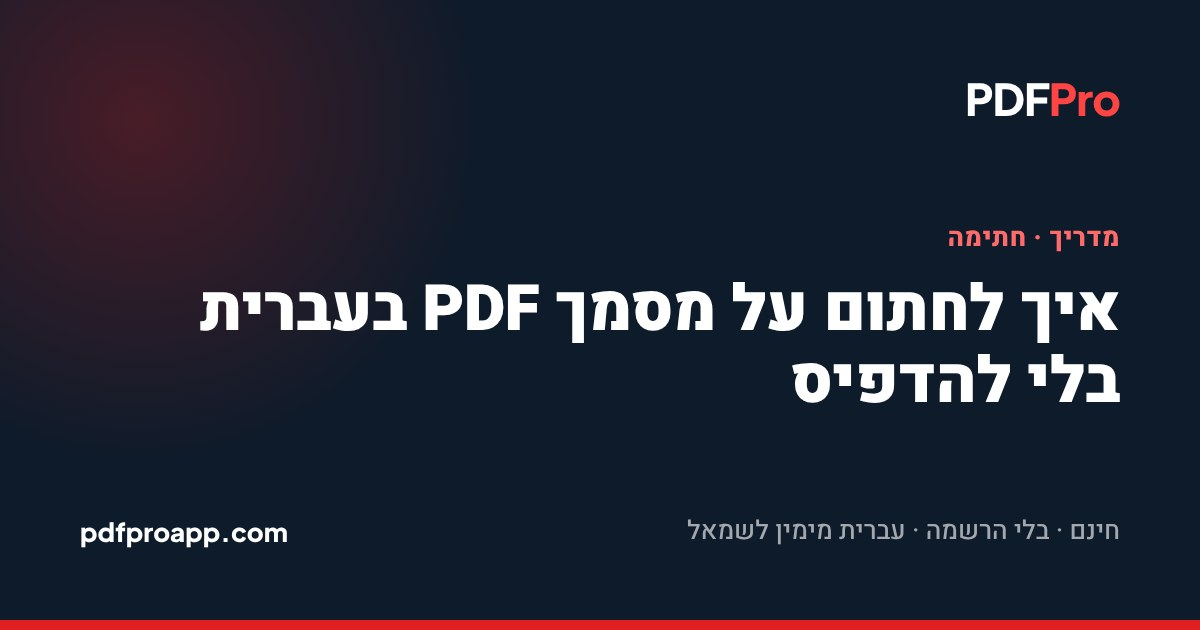
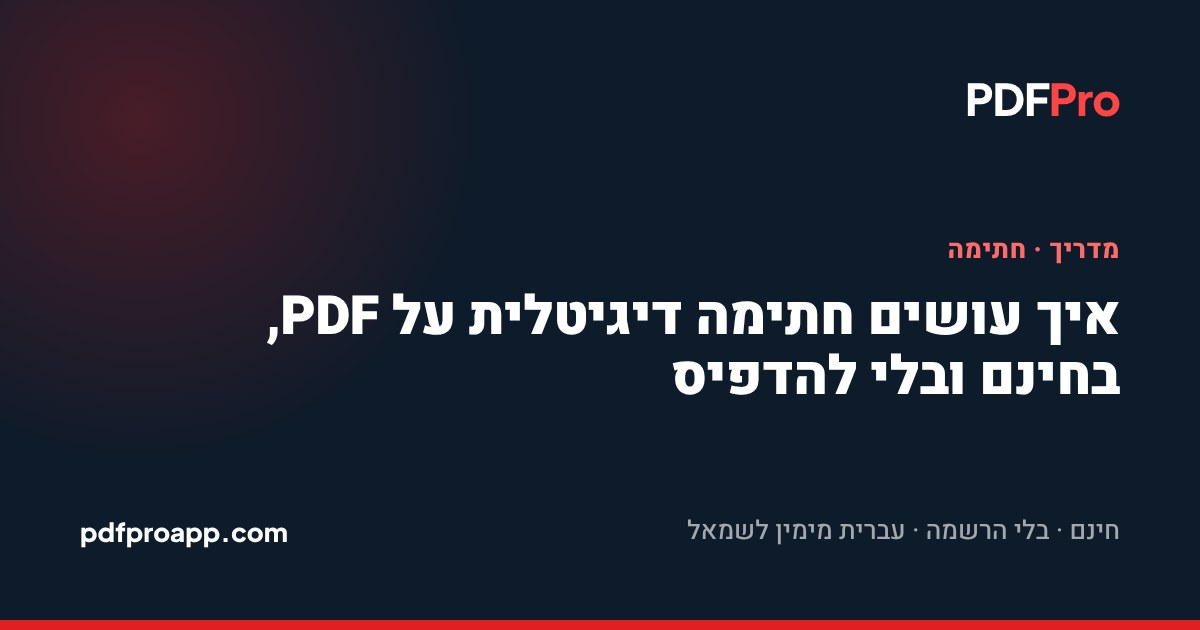
Hebrew titles in the words people search: הקטנת קובץ PDF, איחוד קבצי PDF, חתימה דיגיטלית (#32)
Claude-Session: https://claude.ai/code/session_01XJZ43rP6NY81ufvKxETeWz

Changed region(s): [[0.1542, 0.4524, 0.9558, 0.6635], [0.7708, 0.3619, 0.9558, 0.4222]]

diff --git a/he/blog/index.html b/he/blog/index.html
@@ -54,7 +54,7 @@
 <nav class="breadcrumb" aria-label="Breadcrumb"><ol><li><a href="/he/">בית</a></li><li aria-current="page">בלוג</li></ol></nav>
 <h1>מדריכים</h1>
 <p class="lead">מדריכים מעשיים שיעזרו לכם לגרום לקבצי PDF לעשות מה שצריך.</p>
-<a class="blog-card" href="/he/blog/translate-pdf-english-hebrew/"><time datetime="2026-10-11">11 באוקטובר 2026</time><span class="tag">תרגום</span><h2>איך לתרגם PDF או חוזה מאנגלית לעברית ולשמור על העיצוב</h2><p>מתרגמים מסמך PDF שלם מאנגלית לעברית באותו עיצוב. מה עובד, מה עושים עם סריקות, ומה חשוב לבדוק כשמתרגמים חוזה.</p></a><a class="blog-card" href="/he/blog/merge-pdf-files/"><time datetime="2026-10-11">11 באוקטובר 2026</time><span class="tag">ארגון</span><h2>איך לאחד כמה קבצי PDF לקובץ אחד</h2><p>מאחדים 2 עד 20 קבצי PDF לקובץ אחד בסדר הנכון, ומטפלים בבעיות הנפוצות: סיסמאות, צילומים, עמודים מיותרים וקובץ שיוצא גדול מדי.</p></a><a class="blog-card" href="/he/blog/pdf-to-image/"><time datetime="2026-10-11">11 באוקטובר 2026</time><span class="tag">המרה</span><h2>איך להפוך PDF לתמונה לוואטסאפ, לאינסטגרם או למצגת</h2><p>הופכים עמודי PDF לתמונות JPG או PNG, ובוחרים את הפורמט והאיכות הנכונים לוואטסאפ, לרשתות החברתיות או למצגת.</p></a><a class="blog-card" href="/he/blog/pdf-table-to-excel/"><time datetime="2026-10-09">9 באוקטובר 2026</time><span class="tag">המרה</span><h2>איך להעביר טבלה מ-PDF ל-Excel בלי להקליד מחדש</h2><p>מוציאים טבלה מ-PDF לגיליון Excel עם השורות והעמודות במקום, מתקנים את הבעיות הנפוצות, ומטפלים בטבלאות סרוקות.</p></a><a class="blog-card" href="/he/blog/sign-pdf-on-phone/"><time datetime="2026-10-09">9 באוקטובר 2026</time><span class="tag">חתימה</span><h2>איך לחתום על PDF בטלפון אנדרואיד או אייפון, בלי להדפיס</h2><p>חתימה על מסמך PDF עם האצבע באנדרואיד או באייפון: איפה הקובץ, איך חותמים בדפדפן ואיך שולחים. וגם: שני חותמים, תקלות נפוצות ודרכים אחרות.</p></a><a class="blog-card" href="/he/blog/delete-text-from-pdf/"><time datetime="2026-10-09">9 באוקטובר 2026</time><span class="tag">פרטיות</span><h2>איך למחוק טקסט מקובץ PDF כך שבאמת ייעלם</h2><p>למה ריבוע שחור מעל הטקסט לא מסתיר אותו, איך מוחקים טקסט מ-PDF באמת, ואיך בודקים שזה עבד.</p></a><a class="blog-card" href="/he/blog/word-to-pdf-hebrew/"><time datetime="2026-09-26">26 בספטמבר 2026</time><span class="tag">המרה</span><h2>איך להמיר וורד ל-PDF בעברית: במחשב, בטלפון ואונליין</h2><p>ארבע דרכים להפוך קובץ Word ל-PDF, חמש בדיקות לפני ההמרה, ואיך מתקנים בעיות עברית כדי שה-PDF ייראה בדיוק כמו שצריך.</p></a><a class="blog-card" href="/he/blog/sign-rental-contract-online/"><time datetime="2026-09-26">26 בספטמבר 2026</time><span class="tag">חתימה</span><h2>איך לחתום על חוזה שכירות בלי להדפיס</h2><p>מה לבדוק לפני שחותמים על חוזה שכירות, איך חותמים על ה-PDF אונליין, ומה לשמור אחרי החתימה.</p></a><a class="blog-card" href="/he/blog/signature-types-explained/"><time datetime="2026-09-26">26 בספטמבר 2026</time><span class="tag">חתימה</span><h2>חתימה סרוקה, חתימה על PDF או חתימה מאושרת: מה ההבדל?</h2><p>שלושה סוגי חתימות על מסמכים דיגיטליים, מה כל אחד מוכיח, ואיך יודעים איזה סוג צריך.</p></a><a class="blog-card" href="/he/blog/rotate-scanned-pdf/"><time datetime="2026-09-26">26 בספטמבר 2026</time><span class="tag">ארגון</span><h2>איך לסובב PDF סרוק ולשמור אותו כך</h2><p>למה סיבוב בתוכנת הצפייה לא נשמר, ואיך מסובבים עמודים בקובץ עצמו, כולל רק חלק מהעמודים.</p></a><a class="blog-card" href="/he/blog/copy-text-from-image-hebrew/"><time datetime="2026-09-26">26 בספטמבר 2026</time><span class="tag">OCR</span><h2>איך להעתיק טקסט מתמונה או מסריקה בעברית</h2><p>חילוץ טקסט מצילומים וסריקות עם OCR, למה עברית קשה יותר לזיהוי, ואיך מקבלים תוצאה מדויקת.</p></a><a class="blog-card" href="/he/blog/powerpoint-to-pdf/"><time datetime="2026-09-26">26 בספטמבר 2026</time><span class="tag">המרה</span><h2>איך לשלוח מצגת כ-PDF, ומה הולך לאיבוד</h2><p>למה קובץ PowerPoint יכול להיראות אחרת אצל הנמען, איך ממירים ל-PDF, ומה קורה לאנימציות ולסרטונים.</p></a><a class="blog-card" href="/he/blog/bank-statement-to-excel/"><time datetime="2026-09-26">26 בספטמבר 2026</time><span class="tag">המרה</span><h2>איך להפוך דף חשבון מהבנק לטבלת Excel</h2><p>המרה של דף חשבון או פירוט אשראי ל-Excel, סידור הנתונים, ושימוש בהם למעקב אחרי הוצאות.</p></a><a class="blog-card" href="/he/blog/extract-page-from-pdf/"><time datetime="2026-09-26">26 בספטמבר 2026</time><span class="tag">ארגון</span><h2>איך להוציא עמוד אחד מקובץ PDF ארוך</h2><p>מוציאים עמוד בודד, טווח או כמה עמודים לא רציפים מ-PDF לקובץ חדש, בפחות מדקה.</p></a><a class="blog-card" href="/he/blog/translate-official-document/"><time datetime="2026-09-26">26 בספטמבר 2026</time><span class="tag">תרגום</span><h2>תרגום מסמך רשמי: מתי תרגום מכונה מספיק ומתי צריך מתרגם</h2><p>מתי אפשר לתרגם PDF אוטומטית, מתי צריך תרגום נוטריוני או מאושר, ואיך מקבלים תרגום מכונה טוב יותר.</p></a><a class="blog-card" href="/he/blog/present-pdf-as-slides/"><time datetime="2026-09-26">26 בספטמבר 2026</time><span class="tag">המרה</span><h2>איך להציג PDF כמצגת או להפוך אותו ל-PowerPoint</h2><p>הצגת PDF במסך מלא, או המרה ל-PowerPoint כדי להוסיף, למחוק ולסדר שקופיות.</p></a><a class="blog-card" href="/he/blog/combine-payslips-pdf/"><time datetime="2026-09-26">26 בספטמבר 2026</time><span class="tag">מדריכים</span><h2>איך לאחד תלושי שכר מוגנים בסיסמה לקובץ PDF אחד</h2><p>מדריך צעד אחר צעד להסרת סיסמה ואיחוד כמה תלושי שכר ל-PDF אחד, לבקשת משכנתא, הלוואה או שכירות.</p></a><a class="blog-card" href="/he/blog/scan-document-with-phone/"><time datetime="2026-09-26">26 בספטמבר 2026</time><span class="tag">מדריכים</span><h2>איך לסרוק מסמך עם הטלפון ולשלוח אותו כ-PDF</h2><p>בלי סורק: איך לצלם מסמך כך שייראה כמו סריקה אמיתית, ואיך להפוך את הצילומים לקובץ PDF אחד.</p></a><a class="blog-card" href="/he/blog/pdf-file-too-large/"><time datetime="2026-09-26">26 בספטמבר 2026</time><span class="tag">דחיסה</span><h2>הקובץ גדול מדי? איך להקטין PDF כשאתר לא מקבל אותו</h2><p>למה קבצי PDF כל כך כבדים, וארבע דרכים לעמוד במגבלת ההעלאה, מדחיסה ועד תיקון הקובץ במקור.</p></a><a class="blog-card" href="/he/blog/hide-personal-details-pdf/"><time datetime="2026-09-26">26 בספטמבר 2026</time><span class="tag">פרטיות</span><h2>איך להסתיר מספר תעודת זהות ופרטים אישיים ב-PDF לפני ששולחים</h2><p>אילו פרטים כדאי להסתיר לפני ששולחים מסמך, למה מלבן שחור בתוכנת עריכה לא מספיק, ואיך משחירים כמו שצריך.</p></a><a class="blog-card" href="/he/blog/send-id-copy-safely/"><time datetime="2026-09-26">26 בספטמבר 2026</time><span class="tag">פרטיות</span><h2>שולחים צילום תעודת זהות? כך עושים את זה בצורה בטוחה</h2><p>בעל דירה או מעסיק ביקשו צילום תעודת זהות. איך להגביל את השימוש בעותק עם סימן מים וסיסמה.</p></a><a class="blog-card" href="/he/blog/compress-id-contract-pdf/"><time datetime="2026-07-08">8 ביולי 2026</time><span class="tag">דחיסה</span><h2>איך לדחוס PDF של תעודת זהות או חוזה בלי לפגוע בקריאות החתימה</h2><p>מקטינים PDF של תעודת זהות או חוזה חתום כדי שהאתר יקבל אותו, בלי לטשטש את מספר הזהות ואת החתימה. איזו רמה לבחור ואיך לבדוק לפני ששולחים.</p></a><a class="blog-card" href="/he/blog/pdf-broken-mobile/"><time datetime="2026-07-07">7 ביולי 2026</time><span class="tag">תאימות</span><h2>5 טעויות שגורמות ל-PDF להיראות שבור בפתיחה בנייד</h2><p>ריבועים במקום אותיות, עמוד על הצד, קובץ שלא נטען: חמש הסיבות ש-PDF נראה שבור בטלפון, ותיקון של דקה לכל אחת.</p></a><a class="blog-card" href="/he/blog/pdf-password-protected/"><time datetime="2026-07-05">5 ביולי 2026</time><span class="tag">אבטחה</span><h2>PDF מוגן סיסמה: מה עושים כשאיבדתם את הסיסמה</h2><p>איפה מוצאים את הסיסמה של תלוש שכר או דף חשבון, איך מסירים סיסמה ידועה, ומה האפשרויות האמיתיות כשהיא אבדה.</p></a><a class="blog-card" href="/he/blog/electronic-signature-pdf/"><time datetime="2026-07-03">3 ביולי 2026</time><span class="tag">חתימה</span><h2>איך לחתום על מסמך PDF בעברית בלי להדפיס</h2><p>חותמים על PDF מהמחשב בתוך דקה: מציירים או מקלידים חתימה, בוחרים עמוד ומיקום ומוסיפים תאריך. מה לבדוק לפני ששולחים ומתי החתימה תקפה.</p></a><a class="blog-card" href="/he/blog/pdf-hebrew-rtl/"><time datetime="2026-07-01">1 ביולי 2026</time><span class="tag">המרה</span><h2>למה הטקסט בעברית &quot;מתהפך&quot; אחרי המרת PDF? והפתרון המלא</h2><p>למה עברית יוצאת הפוכה או מבולגנת בהמרת PDF ל-Word ובהעתקה, בדיקה של 10 שניות לסוג הקובץ, ואיך מקבלים מסמך תקין.</p></a>
+<a class="blog-card" href="/he/blog/translate-pdf-english-hebrew/"><time datetime="2026-10-11">11 באוקטובר 2026</time><span class="tag">תרגום</span><h2>איך לתרגם PDF או חוזה מאנגלית לעברית ולשמור על העיצוב</h2><p>מתרגמים מסמך PDF שלם מאנגלית לעברית באותו עיצוב. מה עובד, מה עושים עם סריקות, ומה חשוב לבדוק כשמתרגמים חוזה.</p></a><a class="blog-card" href="/he/blog/merge-pdf-files/"><time datetime="2026-10-11">11 באוקטובר 2026</time><span class="tag">ארגון</span><h2>איך לאחד כמה קבצי PDF לקובץ אחד</h2><p>מאחדים 2 עד 20 קבצי PDF לקובץ אחד בסדר הנכון, ומטפלים בבעיות הנפוצות: סיסמאות, צילומים, עמודים מיותרים וקובץ שיוצא גדול מדי.</p></a><a class="blog-card" href="/he/blog/pdf-to-image/"><time datetime="2026-10-11">11 באוקטובר 2026</time><span class="tag">המרה</span><h2>איך להפוך PDF לתמונה לוואטסאפ, לאינסטגרם או למצגת</h2><p>הופכים עמודי PDF לתמונות JPG או PNG, ובוחרים את הפורמט והאיכות הנכונים לוואטסאפ, לרשתות החברתיות או למצגת.</p></a><a class="blog-card" href="/he/blog/pdf-table-to-excel/"><time datetime="2026-10-09">9 באוקטובר 2026</time><span class="tag">המרה</span><h2>איך להעביר טבלה מ-PDF ל-Excel בלי להקליד מחדש</h2><p>מוציאים טבלה מ-PDF לגיליון Excel עם השורות והעמודות במקום, מתקנים את הבעיות הנפוצות, ומטפלים בטבלאות סרוקות.</p></a><a class="blog-card" href="/he/blog/sign-pdf-on-phone/"><time datetime="2026-10-09">9 באוקטובר 2026</time><span class="tag">חתימה</span><h2>איך לחתום על PDF בטלפון אנדרואיד או אייפון, בלי להדפיס</h2><p>חתימה על מסמך PDF עם האצבע באנדרואיד או באייפון: איפה הקובץ, איך חותמים בדפדפן ואיך שולחים. וגם: שני חותמים, תקלות נפוצות ודרכים אחרות.</p></a><a class="blog-card" href="/he/blog/delete-text-from-pdf/"><time datetime="2026-10-09">9 באוקטובר 2026</time><span class="tag">פרטיות</span><h2>איך למחוק טקסט מקובץ PDF כך שבאמת ייעלם</h2><p>למה ריבוע שחור מעל הטקסט לא מסתיר אותו, איך מוחקים טקסט מ-PDF באמת, ואיך בודקים שזה עבד.</p></a><a class="blog-card" href="/he/blog/word-to-pdf-hebrew/"><time datetime="2026-09-26">26 בספטמבר 2026</time><span class="tag">המרה</span><h2>איך להמיר וורד ל-PDF בעברית: במחשב, בטלפון ואונליין</h2><p>ארבע דרכים להפוך קובץ Word ל-PDF, חמש בדיקות לפני ההמרה, ואיך מתקנים בעיות עברית כדי שה-PDF ייראה בדיוק כמו שצריך.</p></a><a class="blog-card" href="/he/blog/sign-rental-contract-online/"><time datetime="2026-09-26">26 בספטמבר 2026</time><span class="tag">חתימה</span><h2>איך לחתום על חוזה שכירות בלי להדפיס</h2><p>מה לבדוק לפני שחותמים על חוזה שכירות, איך חותמים על ה-PDF אונליין, ומה לשמור אחרי החתימה.</p></a><a class="blog-card" href="/he/blog/signature-types-explained/"><time datetime="2026-09-26">26 בספטמבר 2026</time><span class="tag">חתימה</span><h2>חתימה סרוקה, חתימה על PDF או חתימה מאושרת: מה ההבדל?</h2><p>שלושה סוגי חתימות על מסמכים דיגיטליים, מה כל אחד מוכיח, ואיך יודעים איזה סוג צריך.</p></a><a class="blog-card" href="/he/blog/rotate-scanned-pdf/"><time datetime="2026-09-26">26 בספטמבר 2026</time><span class="tag">ארגון</span><h2>איך לסובב PDF סרוק ולשמור אותו כך</h2><p>למה סיבוב בתוכנת הצפייה לא נשמר, ואיך מסובבים עמודים בקובץ עצמו, כולל רק חלק מהעמודים.</p></a><a class="blog-card" href="/he/blog/copy-text-from-image-hebrew/"><time datetime="2026-09-26">26 בספטמבר 2026</time><span class="tag">OCR</span><h2>איך להעתיק טקסט מתמונה או מסריקה בעברית</h2><p>חילוץ טקסט מצילומים וסריקות עם OCR, למה עברית קשה יותר לזיהוי, ואיך מקבלים תוצאה מדויקת.</p></a><a class="blog-card" href="/he/blog/powerpoint-to-pdf/"><time datetime="2026-09-26">26 בספטמבר 2026</time><span class="tag">המרה</span><h2>איך לשלוח מצגת כ-PDF, ומה הולך לאיבוד</h2><p>למה קובץ PowerPoint יכול להיראות אחרת אצל הנמען, איך ממירים ל-PDF, ומה קורה לאנימציות ולסרטונים.</p></a><a class="blog-card" href="/he/blog/bank-statement-to-excel/"><time datetime="2026-09-26">26 בספטמבר 2026</time><span class="tag">המרה</span><h2>איך להפוך דף חשבון מהבנק לטבלת Excel</h2><p>המרה של דף חשבון או פירוט אשראי ל-Excel, סידור הנתונים, ושימוש בהם למעקב אחרי הוצאות.</p></a><a class="blog-card" href="/he/blog/extract-page-from-pdf/"><time datetime="2026-09-26">26 בספטמבר 2026</time><span class="tag">ארגון</span><h2>איך להוציא עמוד אחד מקובץ PDF ארוך</h2><p>מוציאים עמוד בודד, טווח או כמה עמודים לא רציפים מ-PDF לקובץ חדש, בפחות מדקה.</p></a><a class="blog-card" href="/he/blog/translate-official-document/"><time datetime="2026-09-26">26 בספטמבר 2026</time><span class="tag">תרגום</span><h2>תרגום מסמך רשמי: מתי תרגום מכונה מספיק ומתי צריך מתרגם</h2><p>מתי אפשר לתרגם PDF אוטומטית, מתי צריך תרגום נוטריוני או מאושר, ואיך מקבלים תרגום מכונה טוב יותר.</p></a><a class="blog-card" href="/he/blog/present-pdf-as-slides/"><time datetime="2026-09-26">26 בספטמבר 2026</time><span class="tag">המרה</span><h2>איך להציג PDF כמצגת או להפוך אותו ל-PowerPoint</h2><p>הצגת PDF במסך מלא, או המרה ל-PowerPoint כדי להוסיף, למחוק ולסדר שקופיות.</p></a><a class="blog-card" href="/he/blog/combine-payslips-pdf/"><time datetime="2026-09-26">26 בספטמבר 2026</time><span class="tag">מדריכים</span><h2>איך לאחד תלושי שכר מוגנים בסיסמה לקובץ PDF אחד</h2><p>מדריך צעד אחר צעד להסרת סיסמה ואיחוד כמה תלושי שכר ל-PDF אחד, לבקשת משכנתא, הלוואה או שכירות.</p></a><a class="blog-card" href="/he/blog/scan-document-with-phone/"><time datetime="2026-09-26">26 בספטמבר 2026</time><span class="tag">מדריכים</span><h2>איך לסרוק מסמך עם הטלפון ולשלוח אותו כ-PDF</h2><p>בלי סורק: איך לצלם מסמך כך שייראה כמו סריקה אמיתית, ואיך להפוך את הצילומים לקובץ PDF אחד.</p></a><a class="blog-card" href="/he/blog/pdf-file-too-large/"><time datetime="2026-09-26">26 בספטמבר 2026</time><span class="tag">דחיסה</span><h2>הקובץ גדול מדי? איך להקטין PDF כשאתר לא מקבל אותו</h2><p>למה קבצי PDF כל כך כבדים, וארבע דרכים לעמוד במגבלת ההעלאה, מדחיסה ועד תיקון הקובץ במקור.</p></a><a class="blog-card" href="/he/blog/hide-personal-details-pdf/"><time datetime="2026-09-26">26 בספטמבר 2026</time><span class="tag">פרטיות</span><h2>איך להסתיר מספר תעודת זהות ופרטים אישיים ב-PDF לפני ששולחים</h2><p>אילו פרטים כדאי להסתיר לפני ששולחים מסמך, למה מלבן שחור בתוכנת עריכה לא מספיק, ואיך משחירים כמו שצריך.</p></a><a class="blog-card" href="/he/blog/send-id-copy-safely/"><time datetime="2026-09-26">26 בספטמבר 2026</time><span class="tag">פרטיות</span><h2>שולחים צילום תעודת זהות? כך עושים את זה בצורה בטוחה</h2><p>בעל דירה או מעסיק ביקשו צילום תעודת זהות. איך להגביל את השימוש בעותק עם סימן מים וסיסמה.</p></a><a class="blog-card" href="/he/blog/compress-id-contract-pdf/"><time datetime="2026-07-08">8 ביולי 2026</time><span class="tag">דחיסה</span><h2>איך לדחוס PDF של תעודת זהות או חוזה בלי לפגוע בקריאות החתימה</h2><p>מקטינים PDF של תעודת זהות או חוזה חתום כדי שהאתר יקבל אותו, בלי לטשטש את מספר הזהות ואת החתימה. איזו רמה לבחור ואיך לבדוק לפני ששולחים.</p></a><a class="blog-card" href="/he/blog/pdf-broken-mobile/"><time datetime="2026-07-07">7 ביולי 2026</time><span class="tag">תאימות</span><h2>5 טעויות שגורמות ל-PDF להיראות שבור בפתיחה בנייד</h2><p>ריבועים במקום אותיות, עמוד על הצד, קובץ שלא נטען: חמש הסיבות ש-PDF נראה שבור בטלפון, ותיקון של דקה לכל אחת.</p></a><a class="blog-card" href="/he/blog/pdf-password-protected/"><time datetime="2026-07-05">5 ביולי 2026</time><span class="tag">אבטחה</span><h2>PDF מוגן סיסמה: מה עושים כשאיבדתם את הסיסמה</h2><p>איפה מוצאים את הסיסמה של תלוש שכר או דף חשבון, איך מסירים סיסמה ידועה, ומה האפשרויות האמיתיות כשהיא אבדה.</p></a><a class="blog-card" href="/he/blog/electronic-signature-pdf/"><time datetime="2026-07-03">3 ביולי 2026</time><span class="tag">חתימה</span><h2>איך עושים חתימה דיגיטלית על PDF, בחינם ובלי להדפיס</h2><p>איך עושים חתימה דיגיטלית על מסמך PDF מהמחשב בתוך דקה: מציירים או מקלידים חתימה, בוחרים עמוד ומיקום ומוסיפים תאריך. מה לבדוק לפני ששולחים ומתי החתימה תקפה.</p></a><a class="blog-card" href="/he/blog/pdf-hebrew-rtl/"><time datetime="2026-07-01">1 ביולי 2026</time><span class="tag">המרה</span><h2>למה הטקסט בעברית &quot;מתהפך&quot; אחרי המרת PDF? והפתרון המלא</h2><p>למה עברית יוצאת הפוכה או מבולגנת בהמרת PDF ל-Word ובהעתקה, בדיקה של 10 שניות לסוג הקובץ, ואיך מקבלים מסמך תקין.</p></a>
 </div>
 </main>
 <footer class="site-footer">

diff --git a/he/blog/electronic-signature-pdf/index.html b/he/blog/electronic-signature-pdf/index.html
@@ -3,8 +3,8 @@
 <head>
 <meta charset="UTF-8">
 <meta name="viewport" content="width=device-width, initial-scale=1">
-<title>איך לחתום על מסמך PDF בעברית בלי להדפיס | PDFPro</title>
-<meta name="description" content="חותמים על PDF מהמחשב בתוך דקה: מציירים או מקלידים חתימה, בוחרים עמוד ומיקום ומוסיפים תאריך. מה לבדוק לפני ששולחים ומתי החתימה תקפה.">
+<title>איך עושים חתימה דיגיטלית על PDF, בחינם ובלי להדפיס | PDFPro</title>
+<meta name="description" content="איך עושים חתימה דיגיטלית על מסמך PDF מהמחשב בתוך דקה: מציירים או מקלידים חתימה, בוחרים עמוד ומיקום ומוסיפים תאריך. מה לבדוק לפני ששולחים ומתי החתימה תקפה.">
 <link rel="canonical" href="https://www.pdfproapp.com/he/blog/electronic-signature-pdf/">
 <link rel="icon" href="/favicon.ico" sizes="48x48">
 <link rel="icon" href="/favicon.svg" type="image/svg+xml">
@@ -17,14 +17,14 @@
 <link rel="alternate" hreflang="x-default" href="https://www.pdfproapp.com/blog/electronic-signature-pdf/">
 <meta property="og:type" content="article">
 <meta property="og:site_name" content="PDFPro">
-<meta property="og:title" content="איך לחתום על מסמך PDF בעברית בלי להדפיס | PDFPro">
-<meta property="og:description" content="חותמים על PDF מהמחשב בתוך דקה: מציירים או מקלידים חתימה, בוחרים עמוד ומיקום ומוסיפים תאריך. מה לבדוק לפני ששולחים ומתי החתימה תקפה.">
+<meta property="og:title" content="איך עושים חתימה דיגיטלית על PDF, בחינם ובלי להדפיס | PDFPro">
+<meta property="og:description" content="איך עושים חתימה דיגיטלית על מסמך PDF מהמחשב בתוך דקה: מציירים או מקלידים חתימה, בוחרים עמוד ומיקום ומוסיפים תאריך. מה לבדוק לפני ששולחים ומתי החתימה תקפה.">
 <meta property="og:url" content="https://www.pdfproapp.com/he/blog/electronic-signature-pdf/">
 <meta property="og:locale" content="he_IL">
 <meta property="og:image" content="https://www.pdfproapp.com/assets/og/he-blog-electronic-signature-pdf.jpg">
 <meta property="og:image:width" content="1200">
 <meta property="og:image:height" content="630">
-<meta property="og:image:alt" content="איך לחתום על מסמך PDF בעברית בלי להדפיס | PDFPro">
+<meta property="og:image:alt" content="איך עושים חתימה דיגיטלית על PDF, בחינם ובלי להדפיס | PDFPro">
 <meta name="twitter:card" content="summary_large_image">
 <meta name="twitter:image" content="https://www.pdfproapp.com/assets/og/he-blog-electronic-signature-pdf.jpg">
 <link rel="preconnect" href="https://fonts.googleapis.com">
@@ -35,7 +35,7 @@
 <script async src="https://pagead2.googlesyndication.com/pagead/js/adsbygoogle.js?client=ca-pub-5921716820042715" crossorigin="anonymous"></script>
 <script async src="https://www.googletagmanager.com/gtag/js?id=G-TL72YY4S22"></script>
 <script>window.dataLayer=window.dataLayer||[];function gtag(){dataLayer.push(arguments);}gtag('js',new Date());gtag('config','G-TL72YY4S22');</script>
-<script type="application/ld+json">{"@context": "https://schema.org", "@graph": [{"@type": "Article", "headline": "איך לחתום על מסמך PDF בעברית בלי להדפיס", "description": "חותמים על PDF מהמחשב בתוך דקה: מציירים או מקלידים חתימה, בוחרים עמוד ומיקום ומוסיפים תאריך. מה לבדוק לפני ששולחים ומתי החתימה תקפה.", "inLanguage": "he", "datePublished": "2026-07-03", "dateModified": "2026-10-20", "author": {"@type": "Organization", "name": "PDFPro", "url": "https://www.pdfproapp.com"}, "publisher": {"@type": "Organization", "name": "PDFPro", "url": "https://www.pdfproapp.com"}, "mainEntityOfPage": "https://www.pdfproapp.com/he/blog/electronic-signature-pdf/"}, {"@type": "BreadcrumbList", "itemListElement": [{"@type": "ListItem", "position": 1, "name": "בית", "item": "https://www.pdfproapp.com/he/"}, {"@type": "ListItem", "position": 2, "name": "בלוג", "item": "https://www.pdfproapp.com/he/blog/"}, {"@type": "ListItem", "position": 3, "name": "איך לחתום על מסמך PDF בעברית בלי להדפיס"}]}]}</script>
+<script type="application/ld+json">{"@context": "https://schema.org", "@graph": [{"@type": "Article", "headline": "איך עושים חתימה דיגיטלית על PDF, בחינם ובלי להדפיס", "description": "איך עושים חתימה דיגיטלית על מסמך PDF מהמחשב בתוך דקה: מציירים או מקלידים חתימה, בוחרים עמוד ומיקום ומוסיפים תאריך. מה לבדוק לפני ששולחים ומתי החתימה תקפה.", "inLanguage": "he", "datePublished": "2026-07-03", "dateModified": "2026-11-06", "author": {"@type": "Organization", "name": "PDFPro", "url": "https://www.pdfproapp.com"}, "publisher": {"@type": "Organization", "name": "PDFPro", "url": "https://www.pdfproapp.com"}, "mainEntityOfPage": "https://www.pdfproapp.com/he/blog/electronic-signature-pdf/"}, {"@type": "BreadcrumbList", "itemListElement": [{"@type": "ListItem", "position": 1, "name": "בית", "item": "https://www.pdfproapp.com/he/"}, {"@type": "ListItem", "position": 2, "name": "בלוג", "item": "https://www.pdfproapp.com/he/blog/"}, {"@type": "ListItem", "position": 3, "name": "איך עושים חתימה דיגיטלית על PDF, בחינם ובלי להדפיס"}]}]}</script>
 </head>
 <body class="rtl">
 <header class="site-nav">
@@ -51,11 +51,11 @@
 </header>
 <main>
 <article class="container narrow prose">
-<nav class="breadcrumb" aria-label="Breadcrumb"><ol><li><a href="/he/">בית</a></li><li><a href="/he/blog/">בלוג</a></li><li aria-current="page">איך לחתום על מסמך PDF בעברית בלי להדפיס</li></ol></nav>
+<nav class="breadcrumb" aria-label="Breadcrumb"><ol><li><a href="/he/">בית</a></li><li><a href="/he/blog/">בלוג</a></li><li aria-current="page">איך עושים חתימה דיגיטלית על PDF, בחינם ובלי להדפיס</li></ol></nav>
 <span class="tag">חתימה</span>
-<h1>איך לחתום על מסמך PDF בעברית בלי להדפיס</h1>
+<h1>איך עושים חתימה דיגיטלית על PDF, בחינם ובלי להדפיס</h1>
 <p class="meta"><time datetime="2026-07-03">3 ביולי 2026</time></p>
-<p class="lead">שלחו לכם הסכם, טופס הצטרפות או אישור לחתימה כקובץ PDF. אין צורך להדפיס, לחתום בעט, לסרוק ולשלוח בחזרה. אפשר לחתום ישר מהמחשב בתוך כדקה, גם במסמך בעברית. ככה עושים את זה, ומה כדאי לבדוק לפני ששולחים.</p>
+<p class="lead">שלחו לכם הסכם, טופס הצטרפות או אישור לחתימה כקובץ PDF. אין צורך להדפיס, לחתום בעט, לסרוק ולשלוח בחזרה. אפשר לעשות חתימה דיגיטלית ישר מהמחשב בתוך כדקה, גם במסמך בעברית. בשפה היומיומית "חתימה דיגיטלית" היא כל חתימה על מסמך בלי עט ונייר, וזה מה שהמדריך מסביר. ככה עושים את זה, ומה כדאי לבדוק לפני ששולחים.</p>
 
 <h2>איך חותמים על PDF מהמחשב</h2>
 <ol>

diff --git a/he/merge-pdf/index.html b/he/merge-pdf/index.html
@@ -3,8 +3,8 @@
 <head>
 <meta charset="UTF-8">
 <meta name="viewport" content="width=device-width, initial-scale=1">
-<title>מיזוג PDF – איחוד כמה קבצי PDF לקובץ אחד בחינם | PDFPro</title>
-<meta name="description" content="איחוד של עד 20 קבצי PDF לקובץ אחד, בסדר שתבחרו. בחינם, בלי הרשמה ובלי סימן מים.">
+<title>איחוד קבצי PDF לקובץ אחד – בחינם, בלי סימן מים | PDFPro</title>
+<meta name="description" content="איחוד קבצי PDF לקובץ אחד: עד 20 קבצים, בסדר שתבחרו. בחינם, בלי הרשמה ובלי סימן מים.">
 <link rel="canonical" href="https://www.pdfproapp.com/he/merge-pdf/">
 <link rel="icon" href="/favicon.ico" sizes="48x48">
 <link rel="icon" href="/favicon.svg" type="image/svg+xml">
@@ -17,14 +17,14 @@
 <link rel="alternate" hreflang="x-default" href="https://www.pdfproapp.com/merge-pdf/">
 <meta property="og:type" content="website">
 <meta property="og:site_name" content="PDFPro">
-<meta property="og:title" content="מיזוג PDF – איחוד כמה קבצי PDF לקובץ אחד בחינם | PDFPro">
-<meta property="og:description" content="איחוד של עד 20 קבצי PDF לקובץ אחד, בסדר שתבחרו. בחינם, בלי הרשמה ובלי סימן מים.">
+<meta property="og:title" content="איחוד קבצי PDF לקובץ אחד – בחינם, בלי סימן מים | PDFPro">
+<meta property="og:description" content="איחוד קבצי PDF לקובץ אחד: עד 20 קבצים, בסדר שתבחרו. בחינם, בלי הרשמה ובלי סימן מים.">
 <meta property="og:url" content="https://www.pdfproapp.com/he/merge-pdf/">
 <meta property="og:locale" content="he_IL">
 <meta property="og:image" content="https://www.pdfproapp.com/assets/og/he-merge-pdf.jpg">
 <meta property="og:image:width" content="1200">
 <meta property="og:image:height" content="630">
-<meta property="og:image:alt" content="מיזוג PDF – איחוד כמה קבצי PDF לקובץ אחד בחינם | PDFPro">
+<meta property="og:image:alt" content="איחוד קבצי PDF לקובץ אחד – בחינם, בלי סימן מים | PDFPro">
 <meta name="twitter:card" content="summary_large_image">
 <meta name="twitter:image" content="https://www.pdfproapp.com/assets/og/he-merge-pdf.jpg">
 <link rel="preconnect" href="https://fonts.googleapis.com">
@@ -35,7 +35,7 @@
 <script async src="https://pagead2.googlesyndication.com/pagead/js/adsbygoogle.js?client=ca-pub-5921716820042715" crossorigin="anonymous"></script>
 <script async src="https://www.googletagmanager.com/gtag/js?id=G-TL72YY4S22"></script>
 <script>window.dataLayer=window.dataLayer||[];function gtag(){dataLayer.push(arguments);}gtag('js',new Date());gtag('config','G-TL72YY4S22');</script>
-<script type="application/ld+json">{"@context": "https://schema.org", "@graph": [{"@type": "WebApplication", "name": "PDFPro מיזוג PDF", "url": "https://www.pdfproapp.com/he/merge-pdf/", "applicationCategory": "UtilitiesApplication", "operatingSystem": "Any", "inLanguage": "he", "description": "איחוד של עד 20 קבצי PDF לקובץ אחד, בסדר שתבחרו. בחינם, בלי הרשמה ובלי סימן מים.", "offers": {"@type": "Offer", "price": "0", "priceCurrency": "USD"}}, {"@type": "FAQPage", "mainEntity": [{"@type": "Question", "name": "כמה קבצים אפשר למזג?", "acceptedAnswer": {"@type": "Answer", "text": "בין 2 ל-20 קבצי PDF בפעם אחת."}}, {"@type": "Question", "name": "המיזוג פוגע באיכות?", "acceptedAnswer": {"@type": "Answer", "text": "לא. העמודים מועתקים כמו שהם, בלי דחיסה מחדש."}}, {"@type": "Question", "name": "אפשר למזג PDF מוגן בסיסמה?", "acceptedAnswer": {"@type": "Answer", "text": "לא ישירות. מסירים קודם את הסיסמה בכלי הסרת סיסמה מ-PDF, ואז ממזגים."}}, {"@type": "Question", "name": "הקובץ המאוחד גדול מדי, מה עושים?", "acceptedAnswer": {"@type": "Answer", "text": "מעבירים אותו אחרי המיזוג דרך דחיסת PDF."}}]}, {"@type": "BreadcrumbList", "itemListElement": [{"@type": "ListItem", "position": 1, "name": "בית", "item": "https://www.pdfproapp.com/he/"}, {"@type": "ListItem", "position": 2, "name": "מיזוג PDF"}]}]}</script>
+<script type="application/ld+json">{"@context": "https://schema.org", "@graph": [{"@type": "WebApplication", "name": "PDFPro מיזוג PDF", "url": "https://www.pdfproapp.com/he/merge-pdf/", "applicationCategory": "UtilitiesApplication", "operatingSystem": "Any", "inLanguage": "he", "description": "איחוד קבצי PDF לקובץ אחד: עד 20 קבצים, בסדר שתבחרו. בחינם, בלי הרשמה ובלי סימן מים.", "offers": {"@type": "Offer", "price": "0", "priceCurrency": "USD"}}, {"@type": "FAQPage", "mainEntity": [{"@type": "Question", "name": "כמה קבצים אפשר למזג?", "acceptedAnswer": {"@type": "Answer", "text": "בין 2 ל-20 קבצי PDF בפעם אחת."}}, {"@type": "Question", "name": "המיזוג פוגע באיכות?", "acceptedAnswer": {"@type": "Answer", "text": "לא. העמודים מועתקים כמו שהם, בלי דחיסה מחדש."}}, {"@type": "Question", "name": "אפשר למזג PDF מוגן בסיסמה?", "acceptedAnswer": {"@type": "Answer", "text": "לא ישירות. מסירים קודם את הסיסמה בכלי הסרת סיסמה מ-PDF, ואז ממזגים."}}, {"@type": "Question", "name": "הקובץ המאוחד גדול מדי, מה עושים?", "acceptedAnswer": {"@type": "Answer", "text": "מעבירים אותו אחרי המיזוג דרך דחיסת PDF."}}]}, {"@type": "BreadcrumbList", "itemListElement": [{"@type": "ListItem", "position": 1, "name": "בית", "item": "https://www.pdfproapp.com/he/"}, {"@type": "ListItem", "position": 2, "name": "מיזוג PDF"}]}]}</script>
 </head>
 <body class="rtl">
 <header class="site-nav">
@@ -52,7 +52,7 @@
 <main>
 <div class="container">
   <nav class="breadcrumb" aria-label="Breadcrumb"><ol><li><a href="/he/">בית</a></li><li aria-current="page">מיזוג PDF</li></ol></nav>
-  <h1>מיזוג קבצי PDF</h1>
+  <h1>איחוד קבצי PDF</h1>
   <p class="lead">מאחדים כמה קבצי PDF לקובץ אחד. מוסיפים, קובעים סדר ומורידים PDF אחד.</p>
 
   <section class="tool" aria-label="מיזוג PDF">

diff --git a/he/sign-pdf/index.html b/he/sign-pdf/index.html
@@ -110,7 +110,7 @@
     <ol class="steps"><li><h3>בוחרים את ה-PDF</h3><p>גוררים את הקובץ לתיבה למעלה.</p></li><li><h3>מציירים או מקלידים חתימה</h3><p>ואז בוחרים עמוד ואיפה החתימה תופיע.</p></li><li><h3>מורידים את ה-PDF החתום</h3><p>החתימה, ואם רוצים גם התאריך, מתווספות לעמוד.</p></li></ol>
     <h2>שאלות נפוצות</h2>
     <details><summary>זו חתימה דיגיטלית?</summary><p>בשפה היומיומית כן: זו חתימה על מסמך בלי נייר. היא לא &#x27;חתימה אלקטרונית מאושרת&#x27; עם תעודה דיגיטלית, שחלק מהגופים דורשים. ההבדלים מוסברים במדריך על סוגי חתימות.</p></details><details><summary>אפשר לחתום מהטלפון?</summary><p>כן. פותחים את העמוד בדפדפן בטלפון, בוחרים את ה-PDF מהקבצים או מהמייל, ומורידים את הקובץ החתום.</p></details><details><summary>זו חתימה מחייבת משפטית?</summary><p>הכלי מוסיף חתימה גלויה, כמו חתימה בעט על נייר, שמתקבלת בהרבה מסמכים יומיומיים כמו טפסים, חוזי שכירות ואישורים. יש מסמכים שדורשים חתימה אלקטרונית מאושרת, אז כדאי לבדוק עם מי שביקש את המסמך.</p></details><details><summary>אפשר לחתום בעברית?</summary><p>כן. שמות בעברית נכתבים מימין לשמאל, בצורה תקינה.</p></details><details><summary>אפשר לצייר חתימה משלי?</summary><p>כן. מציירים בתיבה עם העכבר, עם משטח המגע או עם האצבע בטלפון. החתימה נכנסת ל-PDF בדיוק כמו שציירתם, בלי מסגרת.</p></details><details><summary>החתימה שציירתי נשמרת איפשהו?</summary><p>לא. היא נשלחת רק עם הקובץ שאתם חותמים עליו, ונמחקת מהשרת יחד איתו אחרי שעה.</p></details>
-    <h2>מדריכים</h2><a class="blog-card" href="/he/blog/sign-pdf-on-phone/"><h3 style="margin:0 0 .3rem">איך לחתום על PDF בטלפון אנדרואיד או אייפון, בלי להדפיס</h3><p>חתימה על מסמך PDF עם האצבע באנדרואיד או באייפון: איפה הקובץ, איך חותמים בדפדפן ואיך שולחים. וגם: שני חותמים, תקלות נפוצות ודרכים אחרות.</p></a><a class="blog-card" href="/he/blog/sign-rental-contract-online/"><h3 style="margin:0 0 .3rem">איך לחתום על חוזה שכירות בלי להדפיס</h3><p>מה לבדוק לפני שחותמים על חוזה שכירות, איך חותמים על ה-PDF אונליין, ומה לשמור אחרי החתימה.</p></a><a class="blog-card" href="/he/blog/signature-types-explained/"><h3 style="margin:0 0 .3rem">חתימה סרוקה, חתימה על PDF או חתימה מאושרת: מה ההבדל?</h3><p>שלושה סוגי חתימות על מסמכים דיגיטליים, מה כל אחד מוכיח, ואיך יודעים איזה סוג צריך.</p></a><a class="blog-card" href="/he/blog/electronic-signature-pdf/"><h3 style="margin:0 0 .3rem">איך לחתום על מסמך PDF בעברית בלי להדפיס</h3><p>חותמים על PDF מהמחשב בתוך דקה: מציירים או מקלידים חתימה, בוחרים עמוד ומיקום ומוסיפים תאריך. מה לבדוק לפני ששולחים ומתי החתימה תקפה.</p></a>
+    <h2>מדריכים</h2><a class="blog-card" href="/he/blog/sign-pdf-on-phone/"><h3 style="margin:0 0 .3rem">איך לחתום על PDF בטלפון אנדרואיד או אייפון, בלי להדפיס</h3><p>חתימה על מסמך PDF עם האצבע באנדרואיד או באייפון: איפה הקובץ, איך חותמים בדפדפן ואיך שולחים. וגם: שני חותמים, תקלות נפוצות ודרכים אחרות.</p></a><a class="blog-card" href="/he/blog/sign-rental-contract-online/"><h3 style="margin:0 0 .3rem">איך לחתום על חוזה שכירות בלי להדפיס</h3><p>מה לבדוק לפני שחותמים על חוזה שכירות, איך חותמים על ה-PDF אונליין, ומה לשמור אחרי החתימה.</p></a><a class="blog-card" href="/he/blog/signature-types-explained/"><h3 style="margin:0 0 .3rem">חתימה סרוקה, חתימה על PDF או חתימה מאושרת: מה ההבדל?</h3><p>שלושה סוגי חתימות על מסמכים דיגיטליים, מה כל אחד מוכיח, ואיך יודעים איזה סוג צריך.</p></a><a class="blog-card" href="/he/blog/electronic-signature-pdf/"><h3 style="margin:0 0 .3rem">איך עושים חתימה דיגיטלית על PDF, בחינם ובלי להדפיס</h3><p>איך עושים חתימה דיגיטלית על מסמך PDF מהמחשב בתוך דקה: מציירים או מקלידים חתימה, בוחרים עמוד ומיקום ומוסיפים תאריך. מה לבדוק לפני ששולחים ומתי החתימה תקפה.</p></a>
     <h2>כלים נוספים</h2>
     <ul class="chip-row"><li><a href="/he/protect-pdf/">הוספת סיסמה ל-PDF</a></li><li><a href="/he/watermark-pdf/">סימן מים</a></li><li><a href="/he/compress-pdf/">דחיסת PDF</a></li></ul>
   </section>

diff --git a/he/compress-pdf/index.html b/he/compress-pdf/index.html
@@ -3,7 +3,7 @@
 <head>
 <meta charset="UTF-8">
 <meta name="viewport" content="width=device-width, initial-scale=1">
-<title>דחיסת PDF – הקטנת קובץ בלי להרוס אותו, בחינם | PDFPro</title>
+<title>הקטנת קובץ PDF בחינם – בלי להרוס את האיכות | PDFPro</title>
 <meta name="description" content="הקטנת קובץ PDF למייל או להעלאה לאתרים עם מגבלת גודל, בלי להרוס אותו. טקסט וחתימות נשארים חדים, ואם אי אפשר להקטין מקבלים את המקור. בחינם.">
 <link rel="canonical" href="https://www.pdfproapp.com/he/compress-pdf/">
 <link rel="icon" href="/favicon.ico" sizes="48x48">
@@ -17,14 +17,14 @@
 <link rel="alternate" hreflang="x-default" href="https://www.pdfproapp.com/compress-pdf/">
 <meta property="og:type" content="website">
 <meta property="og:site_name" content="PDFPro">
-<meta property="og:title" content="דחיסת PDF – הקטנת קובץ בלי להרוס אותו, בחינם | PDFPro">
+<meta property="og:title" content="הקטנת קובץ PDF בחינם – בלי להרוס את האיכות | PDFPro">
 <meta property="og:description" content="הקטנת קובץ PDF למייל או להעלאה לאתרים עם מגבלת גודל, בלי להרוס אותו. טקסט וחתימות נשארים חדים, ואם אי אפשר להקטין מקבלים את המקור. בחינם.">
 <meta property="og:url" content="https://www.pdfproapp.com/he/compress-pdf/">
 <meta property="og:locale" content="he_IL">
 <meta property="og:image" content="https://www.pdfproapp.com/assets/og/he-compress-pdf.jpg">
 <meta property="og:image:width" content="1200">
 <meta property="og:image:height" content="630">
-<meta property="og:image:alt" content="דחיסת PDF – הקטנת קובץ בלי להרוס אותו, בחינם | PDFPro">
+<meta property="og:image:alt" content="הקטנת קובץ PDF בחינם – בלי להרוס את האיכות | PDFPro">
 <meta name="twitter:card" content="summary_large_image">
 <meta name="twitter:image" content="https://www.pdfproapp.com/assets/og/he-compress-pdf.jpg">
 <link rel="preconnect" href="https://fonts.googleapis.com">
@@ -52,7 +52,7 @@
 <main>
 <div class="container">
   <nav class="breadcrumb" aria-label="Breadcrumb"><ol><li><a href="/he/">בית</a></li><li aria-current="page">דחיסת PDF</li></ol></nav>
-  <h1>דחיסת PDF</h1>
+  <h1>הקטנת קובץ PDF</h1>
   <p class="lead">מקטינים PDF כך שיעבור במייל ובמגבלות ההעלאה של אתרי ממשלה, בנקים ומשאבי אנוש. טקסט וחתימות נשארים חדים, ואם אי אפשר להקטין את הקובץ מקבלים את המקור, אף פעם לא עותק הרוס.</p>
 
   <section class="tool" aria-label="דחיסת PDF">

diff --git a/blog/electronic-signature-pdf/index.html b/blog/electronic-signature-pdf/index.html
@@ -35,7 +35,7 @@
 <script async src="https://pagead2.googlesyndication.com/pagead/js/adsbygoogle.js?client=ca-pub-5921716820042715" crossorigin="anonymous"></script>
 <script async src="https://www.googletagmanager.com/gtag/js?id=G-TL72YY4S22"></script>
 <script>window.dataLayer=window.dataLayer||[];function gtag(){dataLayer.push(arguments);}gtag('js',new Date());gtag('config','G-TL72YY4S22');</script>
-<script type="application/ld+json">{"@context": "https://schema.org", "@graph": [{"@type": "Article", "headline": "How to Sign a PDF Document Without Printing It", "description": "Sign a PDF on your computer in a minute: draw or type your signature, pick the page and position, add the date. What to check before sending and when it is valid.", "inLanguage": "en", "datePublished": "2026-07-03", "dateModified": "2026-10-20", "author": {"@type": "Organization", "name": "PDFPro", "url": "https://www.pdfproapp.com"}, "publisher": {"@type": "Organization", "name": "PDFPro", "url": "https://www.pdfproapp.com"}, "mainEntityOfPage": "https://www.pdfproapp.com/blog/electronic-signature-pdf/"}, {"@type": "BreadcrumbList", "itemListElement": [{"@type": "ListItem", "position": 1, "name": "Home", "item": "https://www.pdfproapp.com/"}, {"@type": "ListItem", "position": 2, "name": "Blog", "item": "https://www.pdfproapp.com/blog/"}, {"@type": "ListItem", "position": 3, "name": "How to Sign a PDF Document Without Printing It"}]}]}</script>
+<script type="application/ld+json">{"@context": "https://schema.org", "@graph": [{"@type": "Article", "headline": "How to Sign a PDF Document Without Printing It", "description": "Sign a PDF on your computer in a minute: draw or type your signature, pick the page and position, add the date. What to check before sending and when it is valid.", "inLanguage": "en", "datePublished": "2026-07-03", "dateModified": "2026-11-06", "author": {"@type": "Organization", "name": "PDFPro", "url": "https://www.pdfproapp.com"}, "publisher": {"@type": "Organization", "name": "PDFPro", "url": "https://www.pdfproapp.com"}, "mainEntityOfPage": "https://www.pdfproapp.com/blog/electronic-signature-pdf/"}, {"@type": "BreadcrumbList", "itemListElement": [{"@type": "ListItem", "position": 1, "name": "Home", "item": "https://www.pdfproapp.com/"}, {"@type": "ListItem", "position": 2, "name": "Blog", "item": "https://www.pdfproapp.com/blog/"}, {"@type": "ListItem", "position": 3, "name": "How to Sign a PDF Document Without Printing It"}]}]}</script>
 </head>
 <body class="ltr">
 <header class="site-nav">

diff --git a/content/blog/he/electronic-signature-pdf.html b/content/blog/he/electronic-signature-pdf.html
@@ -1,4 +1,4 @@
-<p class="lead">שלחו לכם הסכם, טופס הצטרפות או אישור לחתימה כקובץ PDF. אין צורך להדפיס, לחתום בעט, לסרוק ולשלוח בחזרה. אפשר לחתום ישר מהמחשב בתוך כדקה, גם במסמך בעברית. ככה עושים את זה, ומה כדאי לבדוק לפני ששולחים.</p>
+<p class="lead">שלחו לכם הסכם, טופס הצטרפות או אישור לחתימה כקובץ PDF. אין צורך להדפיס, לחתום בעט, לסרוק ולשלוח בחזרה. אפשר לעשות חתימה דיגיטלית ישר מהמחשב בתוך כדקה, גם במסמך בעברית. בשפה היומיומית "חתימה דיגיטלית" היא כל חתימה על מסמך בלי עט ונייר, וזה מה שהמדריך מסביר. ככה עושים את זה, ומה כדאי לבדוק לפני ששולחים.</p>
 
 <h2>איך חותמים על PDF מהמחשב</h2>
 <ol>

diff --git a/build.py b/build.py
@@ -317,9 +317,9 @@ TOOLS = [
         },
         "he": {
             "name": "דחיסת PDF",
-            "title": "דחיסת PDF – הקטנת קובץ בלי להרוס אותו, בחינם | PDFPro",
+            "title": "הקטנת קובץ PDF בחינם – בלי להרוס את האיכות | PDFPro",
             "desc": "הקטנת קובץ PDF למייל או להעלאה לאתרים עם מגבלת גודל, בלי להרוס אותו. טקסט וחתימות נשארים חדים, ואם אי אפשר להקטין מקבלים את המקור. בחינם.",
-            "h1": "דחיסת PDF",
+            "h1": "הקטנת קובץ PDF",
             "lead": "מקטינים PDF כך שיעבור במייל ובמגבלות ההעלאה של אתרי ממשלה, בנקים ומשאבי אנוש. טקסט וחתימות נשארים חדים, ואם אי אפשר להקטין את הקובץ מקבלים את המקור, אף פעם לא עותק הרוס.",
             "run": "דחוס PDF",
             "steps": [
@@ -363,9 +363,9 @@ TOOLS = [
         },
         "he": {
             "name": "מיזוג PDF",
-            "title": "מיזוג PDF – איחוד כמה קבצי PDF לקובץ אחד בחינם | PDFPro",
-            "desc": "איחוד של עד 20 קבצי PDF לקובץ אחד, בסדר שתבחרו. בחינם, בלי הרשמה ובלי סימן מים.",
-            "h1": "מיזוג קבצי PDF",
+            "title": "איחוד קבצי PDF לקובץ אחד – בחינם, בלי סימן מים | PDFPro",
+            "desc": "איחוד קבצי PDF לקובץ אחד: עד 20 קבצים, בסדר שתבחרו. בחינם, בלי הרשמה ובלי סימן מים.",
+            "h1": "איחוד קבצי PDF",
             "lead": "מאחדים כמה קבצי PDF לקובץ אחד. מוסיפים, קובעים סדר ומורידים PDF אחד.",
             "run": "מזג קבצים",
             "steps": [
@@ -1508,12 +1508,12 @@ ARTICLES = [
      "he": {"title": "PDF מוגן סיסמה: מה עושים כשאיבדתם את הסיסמה",
             "desc": "איפה מוצאים את הסיסמה של תלוש שכר או דף חשבון, איך מסירים סיסמה ידועה, ומה האפשרויות האמיתיות כשהיא אבדה.",
             "tag": "אבטחה", "cta": "יודעים את הסיסמה? הסירו אותה"}},
-    {"slug": "electronic-signature-pdf", "published": "2026-07-03", "updated": "2026-10-20", "tool": "sign-pdf",
+    {"slug": "electronic-signature-pdf", "published": "2026-07-03", "updated": "2026-11-06", "tool": "sign-pdf",
      "en": {"title": "How to Sign a PDF Document Without Printing It",
             "desc": "Sign a PDF on your computer in a minute: draw or type your signature, pick the page and position, add the date. What to check before sending and when it is valid.",
             "tag": "Signature", "cta": "Sign a PDF"},
-     "he": {"title": "איך לחתום על מסמך PDF בעברית בלי להדפיס",
-            "desc": "חותמים על PDF מהמחשב בתוך דקה: מציירים או מקלידים חתימה, בוחרים עמוד ומיקום ומוסיפים תאריך. מה לבדוק לפני ששולחים ומתי החתימה תקפה.",
+     "he": {"title": "איך עושים חתימה דיגיטלית על PDF, בחינם ובלי להדפיס",
+            "desc": "איך עושים חתימה דיגיטלית על מסמך PDF מהמחשב בתוך דקה: מציירים או מקלידים חתימה, בוחרים עמוד ומיקום ומוסיפים תאריך. מה לבדוק לפני ששולחים ומתי החתימה תקפה.",
             "tag": "חתימה", "cta": "חתימה על PDF"}},
     {"slug": "pdf-hebrew-rtl", "published": "2026-07-01", "updated": "2026-10-16", "tool": "pdf-to-word",
      "en": {"title": "Why Hebrew Text Gets Scrambled in PDF Conversion (and the Fix)",
